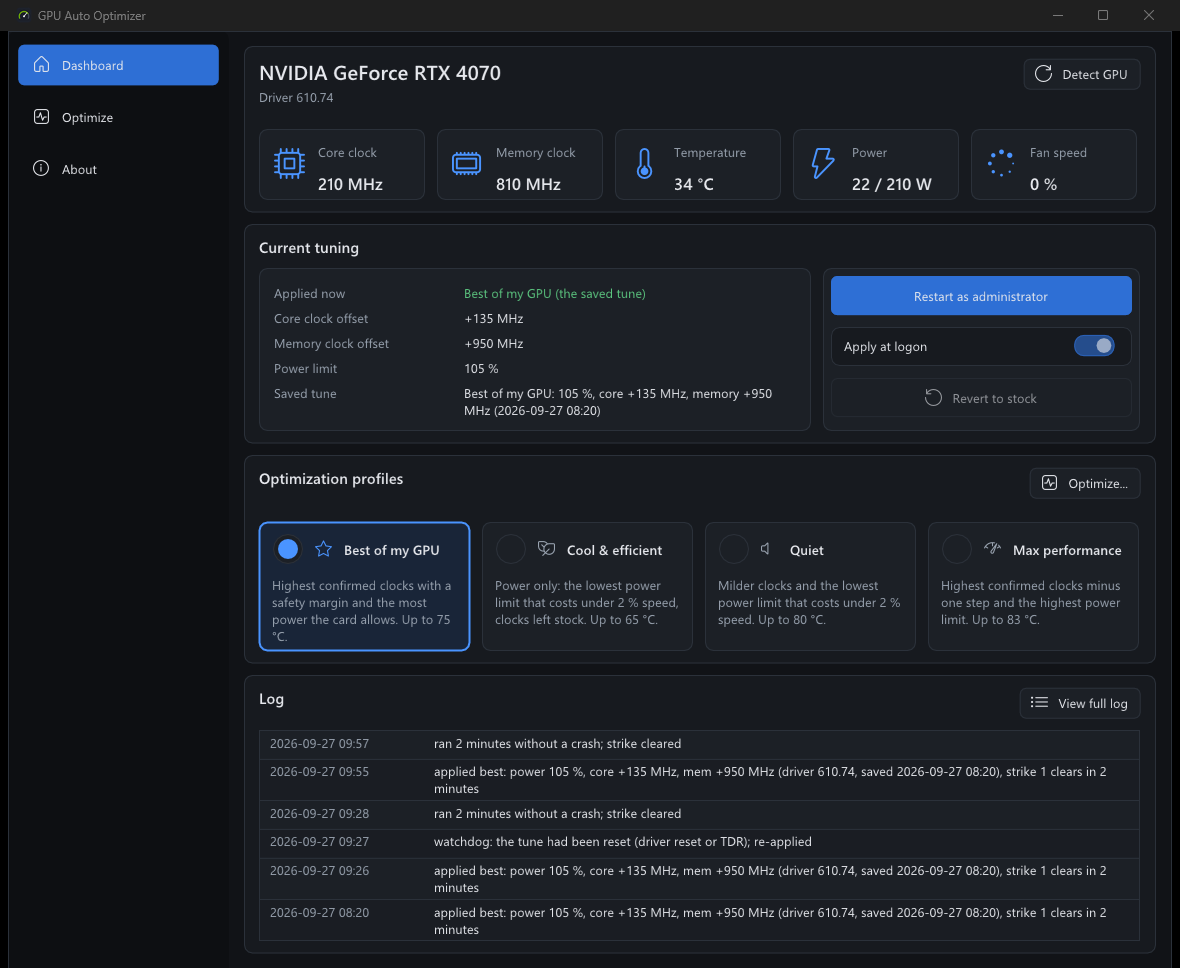
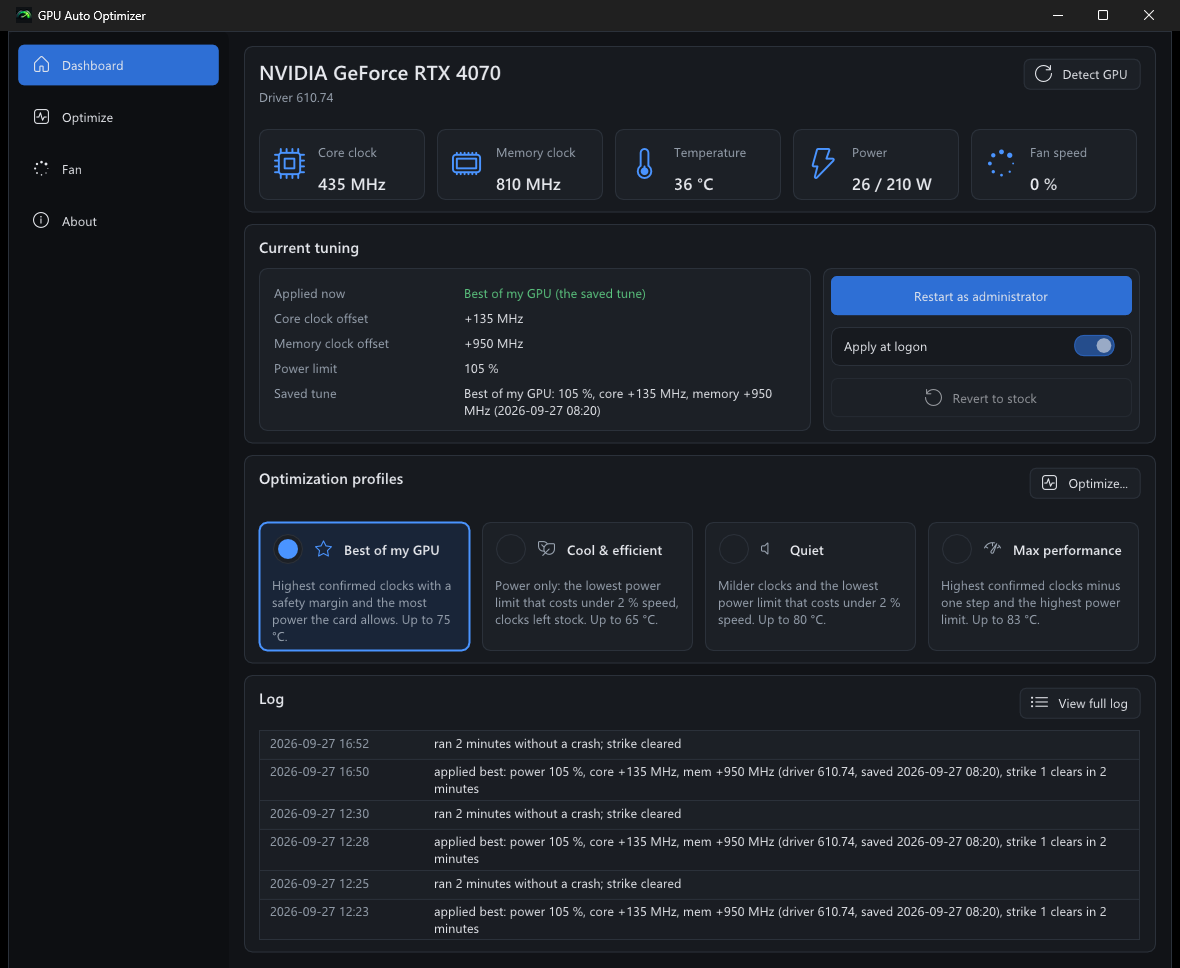
release: 0.2.0

diff --git a/src/core/version.hpp b/src/core/version.hpp
@@ -2,9 +2,9 @@
 // The one place the version lives. Macros, because the resource compiler
 // (app.rc, the exe's file properties) cannot read C++.
 #define GAO_VERSION_MAJOR 0
-#define GAO_VERSION_MINOR 1
+#define GAO_VERSION_MINOR 2
 #define GAO_VERSION_PATCH 0
-#define GAO_VERSION_STRING "0.1.0"
+#define GAO_VERSION_STRING "0.2.0"
 
 #ifndef RC_INVOKED
 #include <string_view>

diff --git a/tests/test_version.cpp b/tests/test_version.cpp
@@ -4,5 +4,5 @@
 
 TEST_CASE("version string is the product name and a semver") {
     CHECK(gao::kProductName == std::string("gpu-auto-optimizer"));
-    CHECK(gao::kVersion == std::string("0.1.0"));
+    CHECK(gao::kVersion == std::string("0.2.0"));
 }

diff --git a/README.md b/README.md
@@ -26,7 +26,7 @@ GPU Auto Optimizer tunes the **power limit** and the **core and memory clock off
 - **Verified, not trusted:** every value written to the driver is read back and checked, and a failed apply ends at stock.
 - **Crash-proof search:** a journal on disk records each candidate before it is tried, so a setting that froze the machine is never tried again.
 - **Stays applied:** the tray app re-applies the tune at every logon, and within about half a minute after a driver reset (TDR).
-- **Fan curves:** a curve per profile, editable, with fan stop at idle; the fans go back to the driver on exit, sleep, logoff and crashes.
+- **Fan curves:** Silent, Normal, Cool or Aggressive with any profile, or your own; fans stop at idle without cycling on and off, the app learns the lowest speed your fans can actually hold, and the fans go back to the driver on exit, sleep, logoff and crashes.
 - **Plays fair:** if MSI Afterburner or another tool changes the settings, it steps aside instead of fighting over them.
 - **Native and small:** two C++ programs, under 2 MB together, with no installer, no runtime and no driver or service.
 
